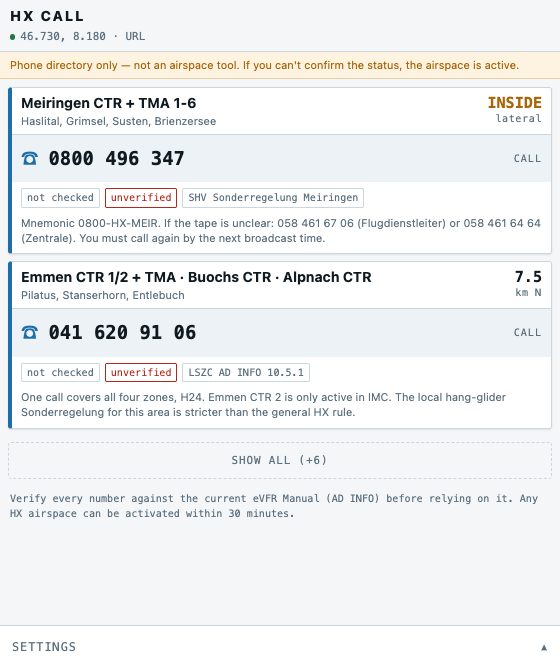
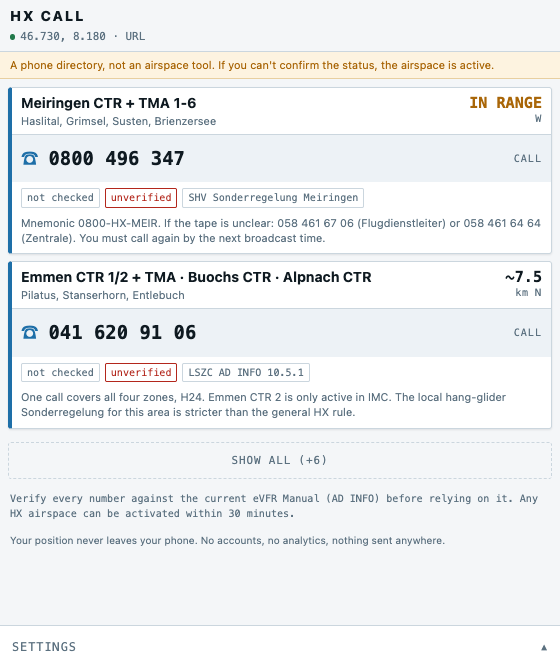
Regenerate the card, and stop claiming it works with no signal
The committed og-hxcall.png was a render from before two changes landed,
so the image pasted into chat groups still advertised "INSIDE" and the
em dash that was removed from every reader-facing line. The card sources
were already correct; only the png was stale. Recaptured, so it now shows
IN RANGE and ~7.5 km.

"Works with no signal" was wrong in a way worth fixing. The tool's entire
purpose is placing a phone call, so signal is exactly what it needs. What
it does not need is a DATA connection: the directory is cached, the answer
is not. Reworded in the meta descriptions, the app card on the launcher,
the README and sw.js, with the limit spelled out where it matters.

diff --git a/index.html b/index.html
@@ -10,7 +10,7 @@
 <link rel="apple-touch-icon" href="icon-180.png">
 
 <!-- Social preview. See the note in app.html. Regenerate with tools/og-card.html. -->
-<meta name="description" content="Phone numbers for Swiss HX airspaces, sorted by how close you are. Works with no signal.">
+<meta name="description" content="Phone numbers for Swiss HX airspaces, sorted by how close you are. Needs no data connection.">
 <meta property="og:type" content="website">
 <meta property="og:site_name" content="Free Flight Tools">
 <meta property="og:title" content="HX Call: is that airspace on?">
@@ -183,7 +183,7 @@ footer{margin-top:26px;color:var(--dim);font-size:.76em;line-height:1.6}
   <div class="pick">
     <a id="toapp" href="app.html">
       <b>App →</b>
-      <span>Full list with landmarks and notes. Add it to your home screen, and it works offline.</span>
+      <span>Full list with landmarks and notes. Add it to your home screen, and the list needs no data connection.</span>
     </a>
     <a id="towidget" href="widget.html">
       <b>XCTrack Widget →</b>
@@ -334,7 +334,7 @@ refreshLinks();
 <!-- ══ AUTOMATIC TRANSLATION ═══════════════════════════════════════════
      GTranslate, on this setup page and the hub ONLY. Never app.html or
      widget.html: those are read in the air, and HX Call in particular
-     exists to work with no signal, so a third-party script there would
+     exists to work with no data connection, so a third-party script would
      put a network dependency inside that guarantee. Aviation English is
      also the right register for the readings themselves.
 

diff --git a/sw.js b/sw.js
@@ -1,9 +1,11 @@
 /* ══════════════════════════════════════════════════════════════════════
    HX CALL: offline cache.
 
-   The phone list has to work at 3000 m with no signal, which is the whole
-   point of the project, so every file is precached on first visit and
-   served from the cache afterwards.
+   The phone list has to work at 3000 m with no data connection, which is
+   the point of the project, so every file is precached on first visit and
+   served from the cache afterwards. Note the limit: what this makes
+   available offline is the DIRECTORY, not the answer. Placing the call
+   still needs phone signal.
 
    Strategy is stale-while-revalidate, not cache-first: the cached copy is
    returned immediately, and a fresh copy is fetched in the background for

diff --git a/app.html b/app.html
@@ -17,7 +17,7 @@
      bare grey URL. Absolute, not relative: WhatsApp, Telegram and Slack do
      resolve a relative og:image, but the spec asks for absolute and some
      scrapers refuse otherwise. Regenerate the card with tools/og-card.html. -->
-<meta name="description" content="Phone numbers for Swiss HX airspaces, sorted by how close you are. Works with no signal.">
+<meta name="description" content="Phone numbers for Swiss HX airspaces, sorted by how close you are. Needs no data connection.">
 <meta property="og:type" content="website">
 <meta property="og:site_name" content="Free Flight Tools">
 <meta property="og:title" content="HX Call: is that airspace on?">

diff --git a/README.md b/README.md
@@ -28,7 +28,7 @@ hx/base.css     colour tokens, light/dark, shared primitives
 hx/fields.js    settings fields, generated from HX.SPEC for both pages
 hx/qr.js        QR encoder, launcher page only, never loaded in flight
 hx/offline.js   registers the service worker, failures ignored on purpose
-sw.js           precaches everything so the list works with no signal
+sw.js           precaches everything so the list needs no data connection
 ```
 
 No dependencies, no build step, no network at runtime. Any static host: GitHub Pages, Netlify, or a local file.
@@ -64,7 +64,7 @@ Open `app.html` in any browser and allow location when asked. Needs `https://`. 
 
 Open the app and add it to the home screen. *Share → Add to Home Screen* on iOS, *⋮ → Add to Home screen* on Android. It launches full screen, without browser chrome, straight into the list.
 
-**It then works with no signal.** Everything is cached on first visit, so the numbers are there at 3000 m with no data connection, which is the point. Corrections still reach you: the cached copy is shown immediately and a fresh one is fetched in the background for next time, so an updated number arrives on the following launch rather than never.
+**It then needs no data connection.** Everything is cached on first visit, so the numbers are there at 3000 m with no internet, which is the point. You still need enough phone signal to place the call, of course: what is cached is the directory, not the answer. Corrections still reach you: the cached copy is shown immediately and a fresh one is fetched in the background for next time, so an updated number arrives on the following launch rather than never.
 
 The widget caches itself the same way, though whether XCTrack's WebView allows it is untested. If it doesn't, the widget behaves exactly as before, online only. Offline is an enhancement here, never something the phone list depends on.
 

diff --git a/CLAUDE.md b/CLAUDE.md
@@ -84,7 +84,7 @@ to them.
   reloads would miss the cache every time. Bump `CACHE` when the file list
   changes.
 - **No dependencies, no build step, and the phone list works with no network.**
-  It runs offline at 3000 m on a phone with no signal. Adding npm, a bundler or
+  It runs at 3000 m on a phone with no data connection. Adding npm, a bundler or
   a CDN import defeats the design. Any geo library costs more than the ~20 lines
   of maths it would replace.
 - **`hx/core.js` touches no DOM and renders nothing.** It hands pages a state
